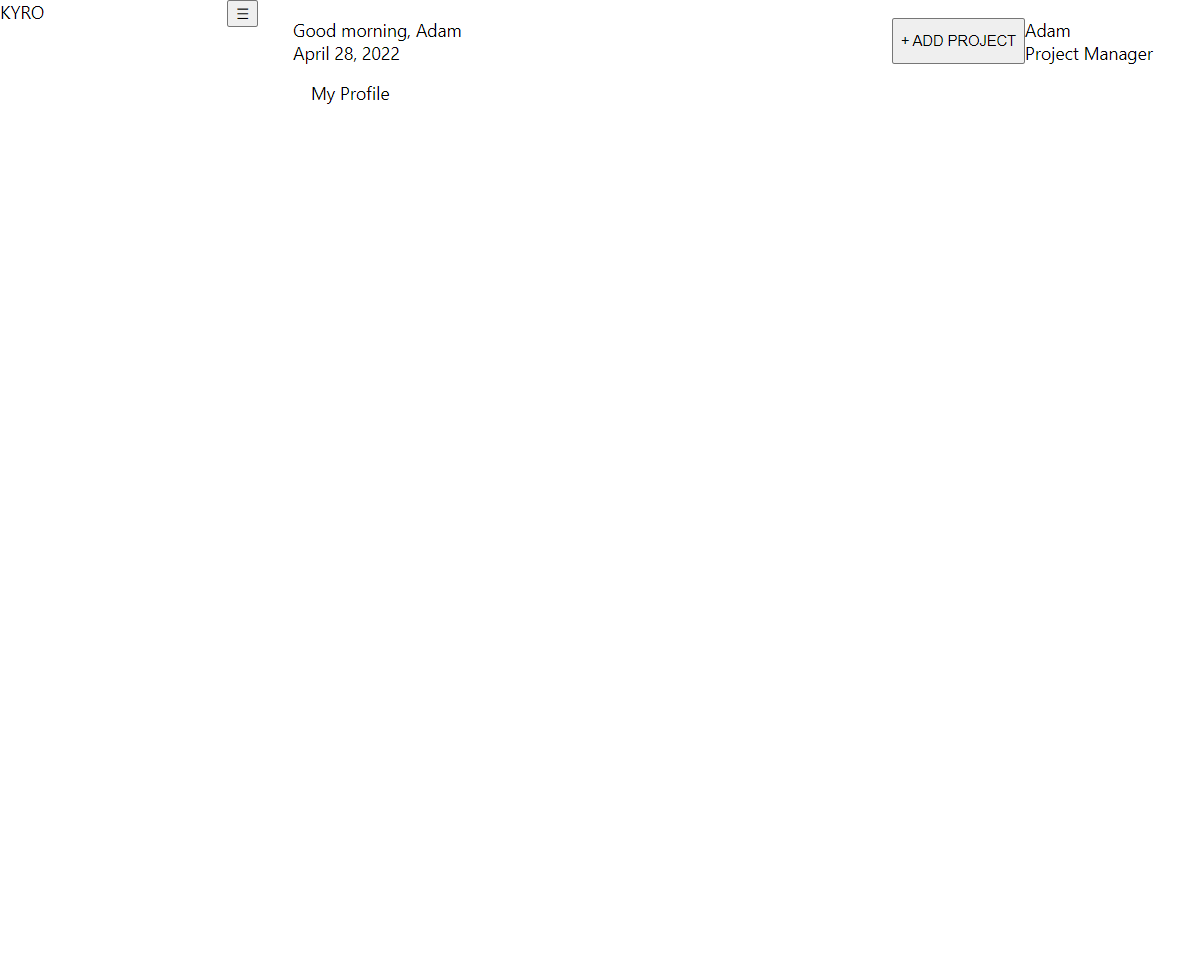
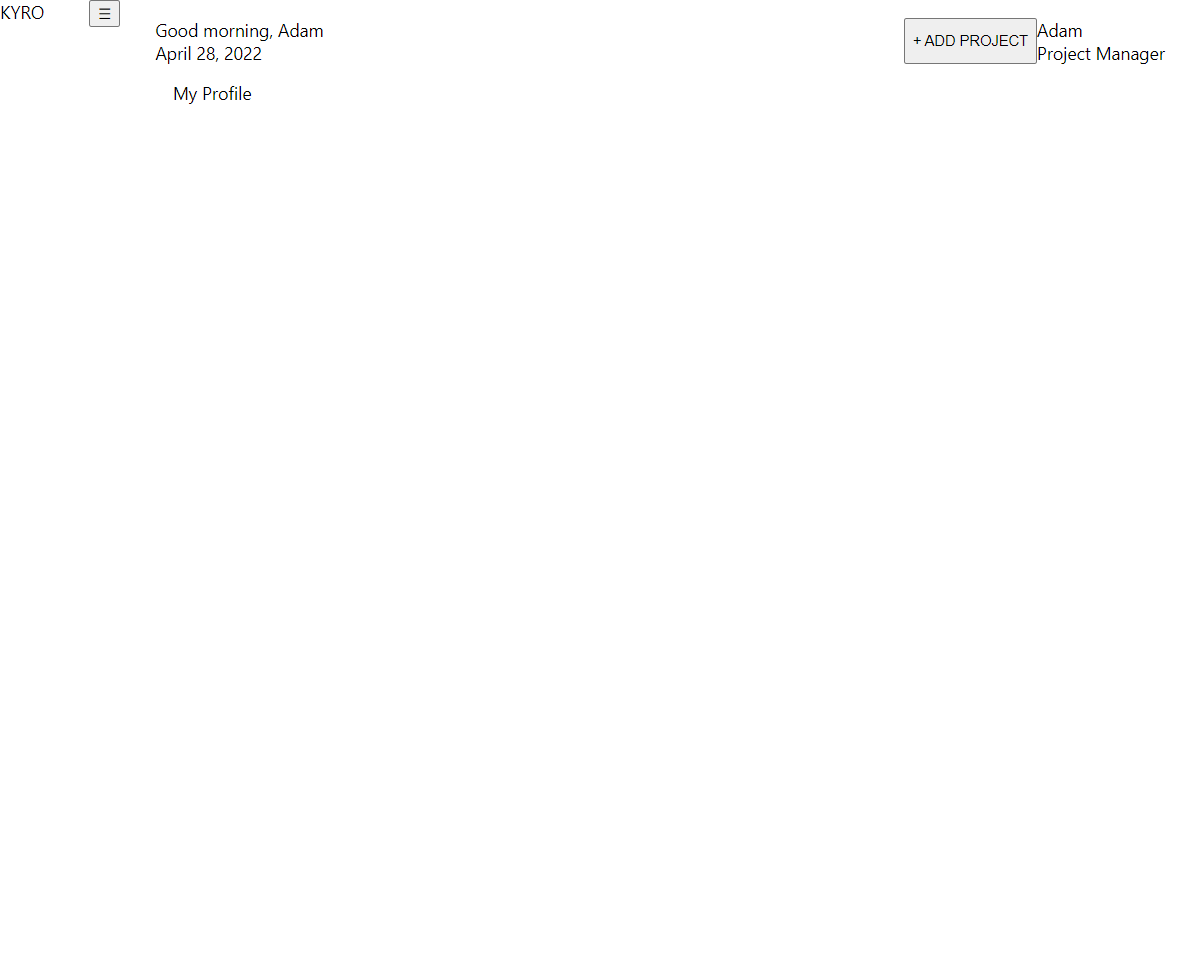
feat: fe: added toggle in sidebar

diff --git a/frontend/components/Sidebar/Sidebar.tsx b/frontend/components/Sidebar/Sidebar.tsx
@@ -6,12 +6,18 @@ interface ISidebarProps {
 }
 
 const Sidebar: FC<ISidebarProps> = (props) => {
+  const [ isShowSidebar, setIsShowSidebar ] = useState(false);
 
   return (
-    <div className={styles['sidebar-container']}>
+    <div
+      className={styles['sidebar-container']}
+      style={{'width': ` ${isShowSidebar ? '30%' : '10%'}`}}
+      >
       <div className={styles['banner-btn-container']}>
         <p>KYRO</p>
-        <button>☰</button>
+        <button onClick={() => setIsShowSidebar(!isShowSidebar)}>
+          ☰
+        </button>
       </div>
       <div className={styles['links-container']}>
         <div className={styles['top']}>

diff --git a/frontend/components/Sidebar/Sidebar.module.css b/frontend/components/Sidebar/Sidebar.module.css
@@ -1,6 +1,6 @@
 .sidebar-container {
   height: 100%;
-  width: 30%;
+  min-width: 10%;
 }
 
 .banner-btn-container {

diff --git a/frontend/components/Layout/Layout.module.css b/frontend/components/Layout/Layout.module.css
@@ -1,6 +1,6 @@
 .layout-container {
   display: flex;
-  height: 100%;
+  height: 100vh;
   width: 100vw;
 }
 
